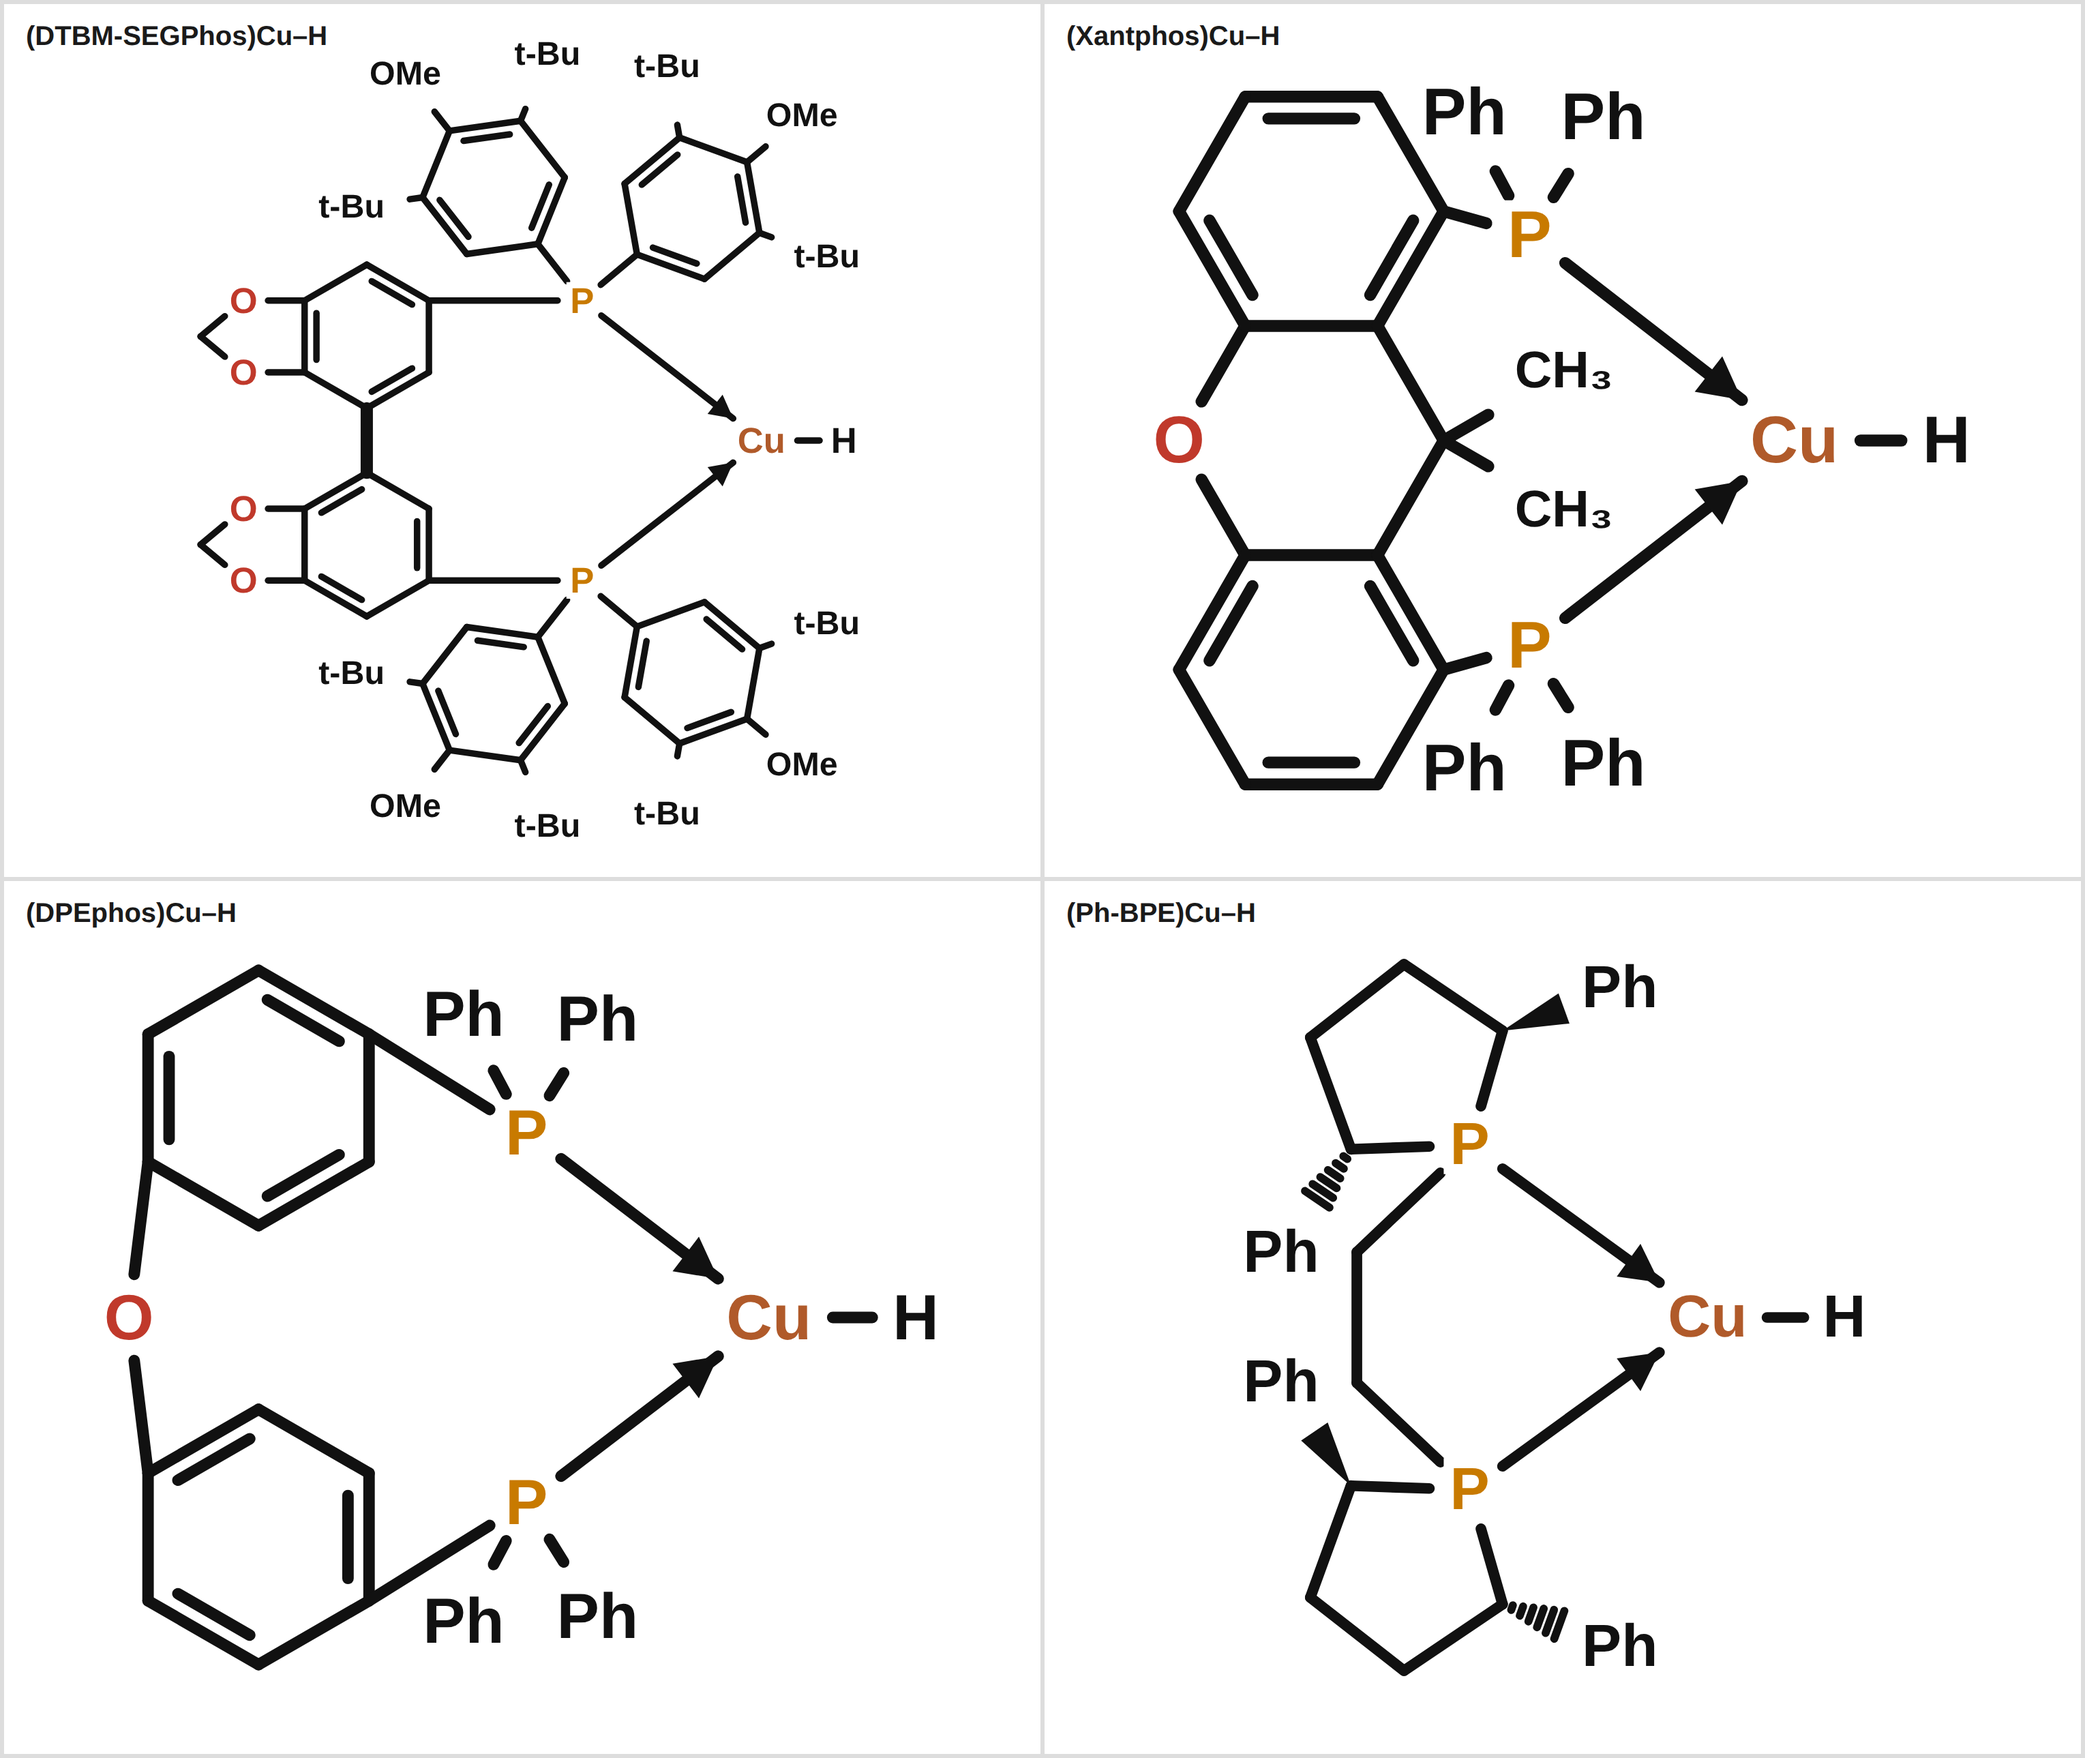
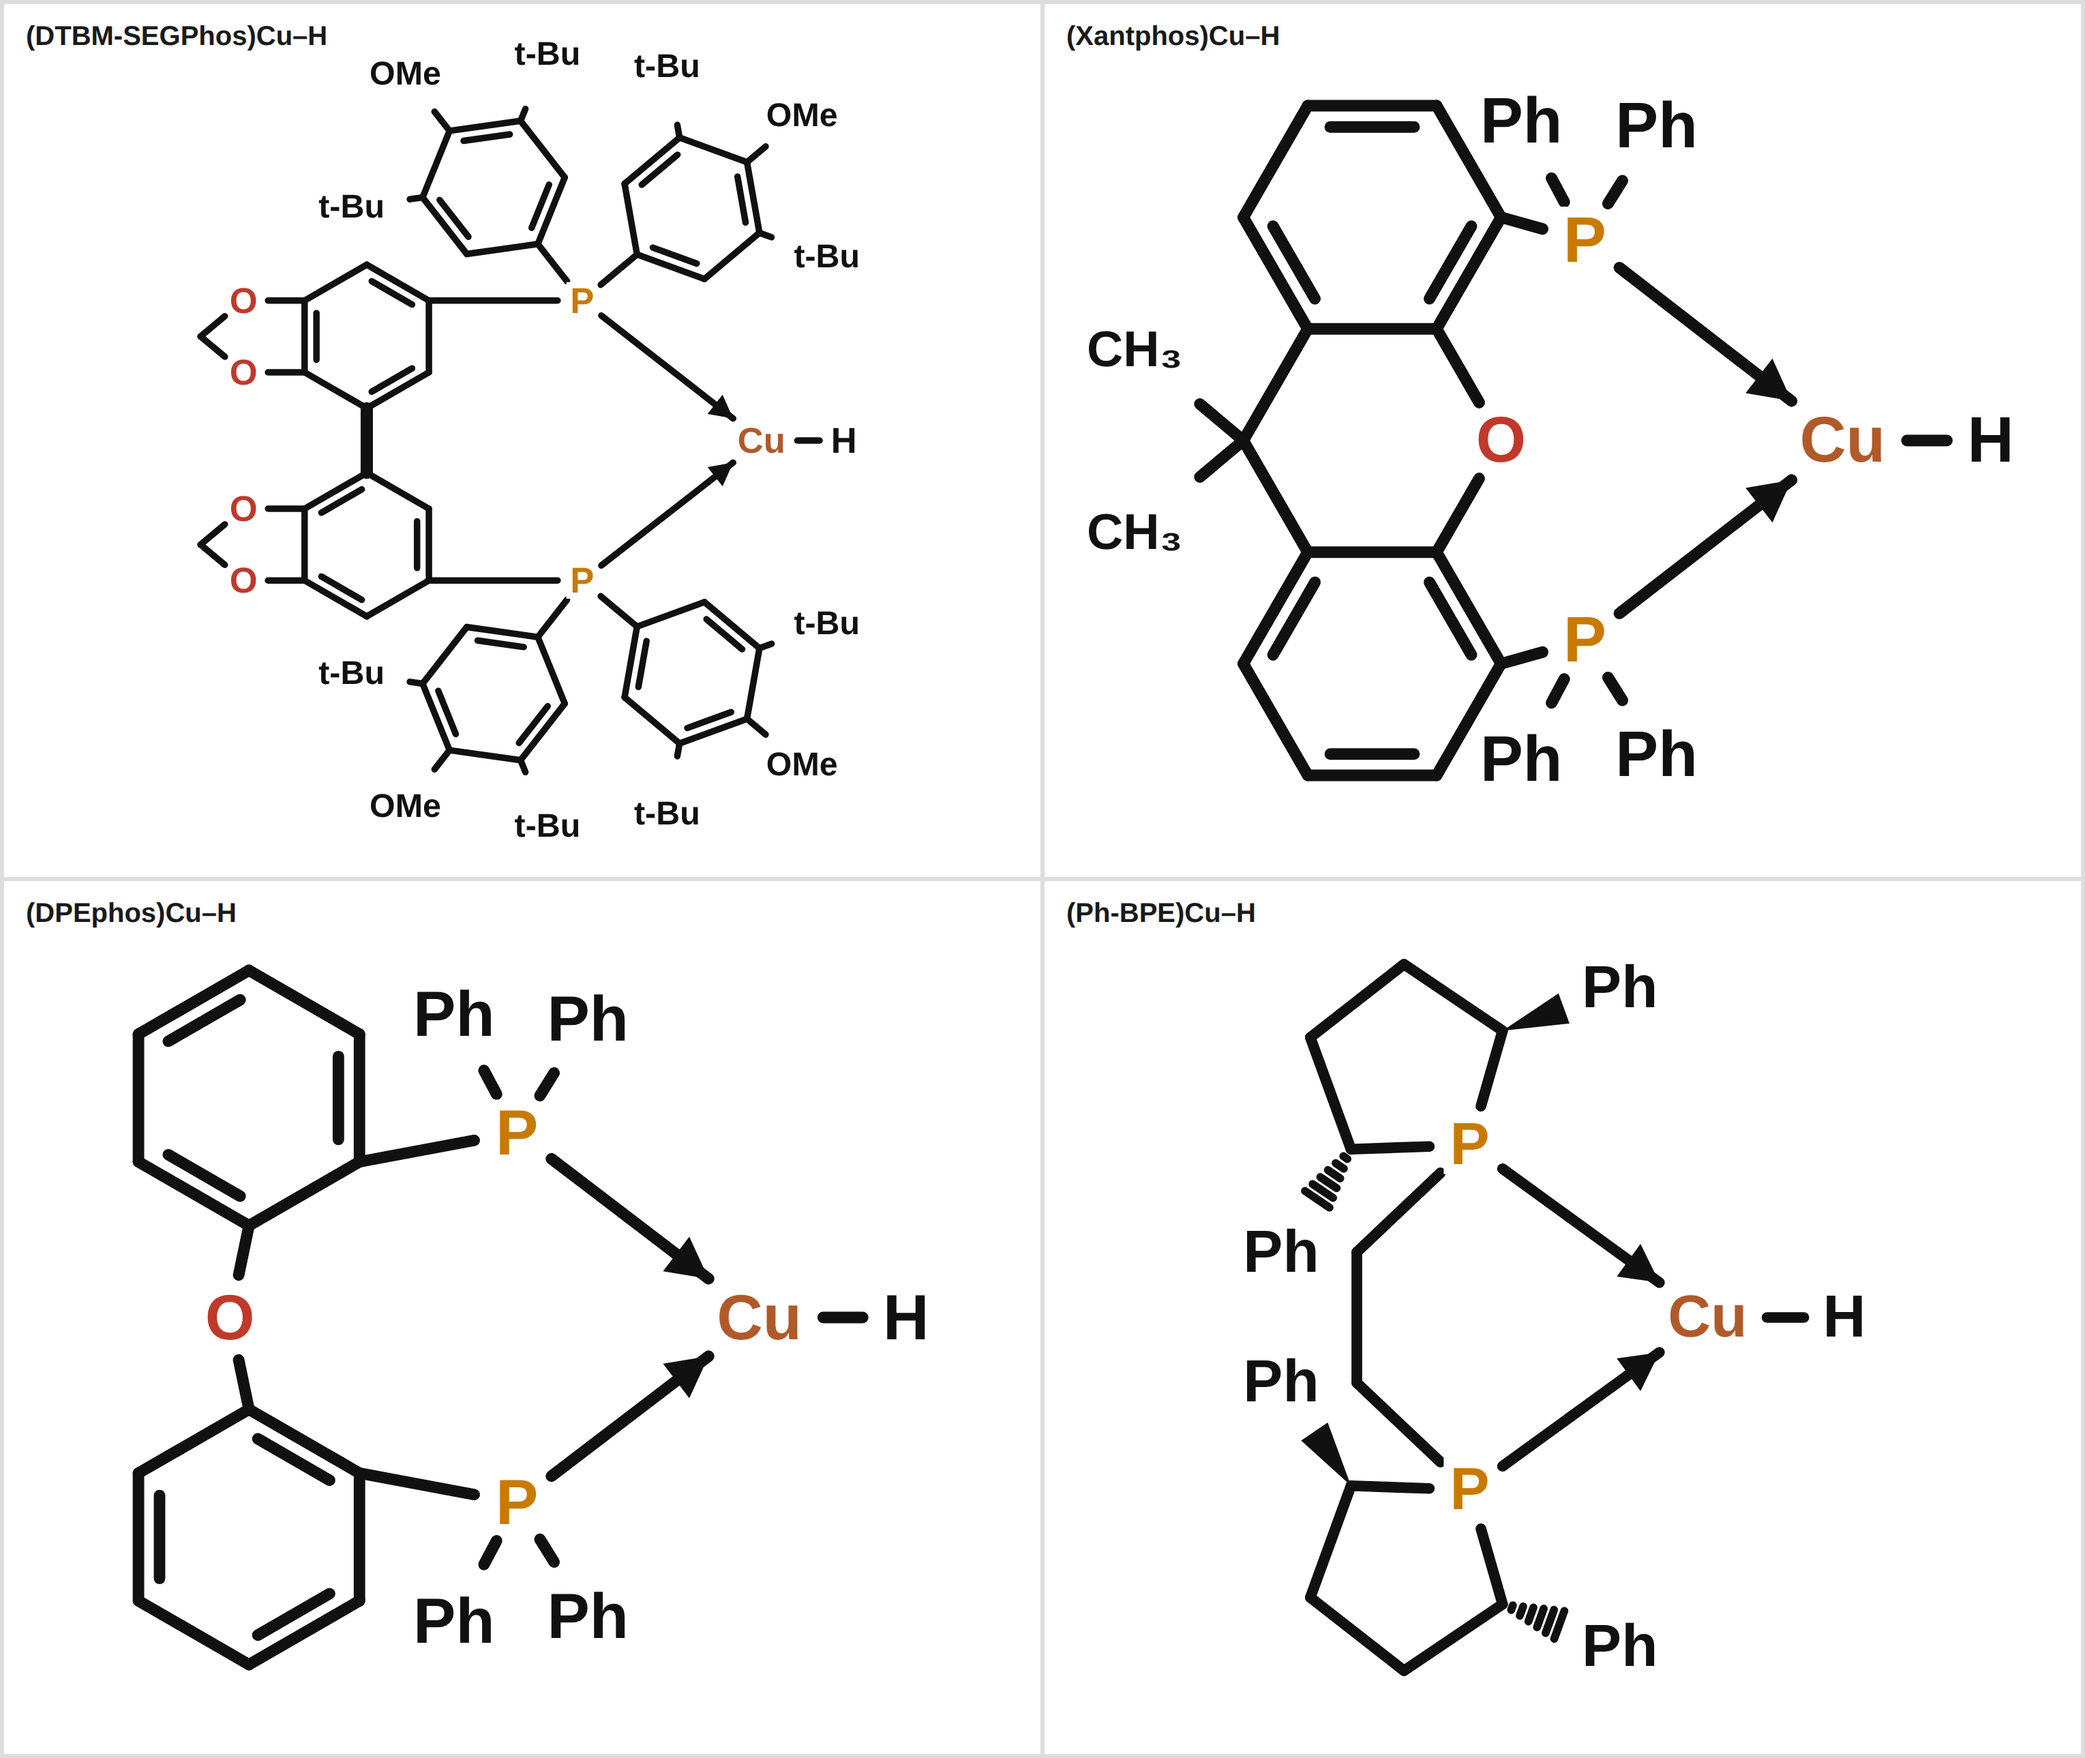
metaldepict Method C: fix Xantphos & DPEphos phosphine connectivity
The deterministic SVG template (method3_template.py) attached the phosphines to
the wrong aryl carbon relative to the bridging oxygen:

  * Xantphos -- O was on the far pyran vertex and C(CH3)2 on the metal side, so
    "nearest-P" picked the benzo carbon peri to C(CH3)2 instead of peri to O.
    Real Xantphos is 4,5-bis(phosphino): both P's are peri to O.  Fixed by
    putting the O bridgehead on the metal-facing vertex (CMe2 on the far side);
    the P-ipso carbon is now correctly ortho to the O-side fusion carbon.

  * DPEphos -- P was bonded to bu[0] (30 deg) while O bridged bu[3] (210 deg),
    i.e. P para to O.  DPEphos is (2-Ph2P-phenyl)2O: P must be ORTHO to O.
    Re-oriented each ring (v0 -30 / +30) so the P-ipso vertex points at its P
    and the adjacent vertex toward the hinge carries the ether O.

Also widened the C(CH3)2 methyl fan so the two CH3 labels clear each other.
All four Method-C structures now report zero template overlaps. The underlying
RDKit molecules were already correct; this was purely a hand-template bug, and
Method C2 (graph-BFS from the real bond list) was unaffected.

Claude-Session: https://claude.ai/code/session_01VEr4Hixwf6YDK6DNqMg3Gi

Changed region(s): [[0.5281, 0.031, 0.963, 0.4655], [0.0311, 0.5586, 0.466, 0.962], [0.3107, 0.7758, 0.3417, 0.8068]]

diff --git a/metaldepict/methods/method3_template.py b/metaldepict/methods/method3_template.py
@@ -182,8 +182,12 @@ def _xanthene_backbone(sc, c):
                 if not (set((b.a, b.b)) <= set(py))]
     for k in range(6):
         sc.bond(py[k], py[(k + 1) % 6], order=1)
-    cQ = py[0]    # right vertex -> C(CH3)2
-    cO = py[3]    # left vertex  -> O
+    # CONNECTIVITY: in 4,5-bis(phosphino)xanthene the two P's sit PERI TO THE
+    # OXYGEN (positions 4,5).  So the O bridgehead must face the metal pocket
+    # (right) and C(CH3)2 the far side (left) -- then the benzo carbon nearest
+    # each P is the one ortho to the O-bearing fusion carbon, i.e. peri to O.
+    cO = py[0]    # right vertex (metal side) -> O bridgehead
+    cQ = py[3]    # left  vertex (far side)   -> C(CH3)2
     sc.atoms[cO].label = "O"
     sc.atoms[cO].color = O_COL
     # the two upper carbons py[1](60deg) & py[2](120deg) are the shared edge of
@@ -191,17 +195,17 @@ def _xanthene_backbone(sc, c):
     # Fuse upper benzo onto edge (py[1]-py[2]); fuse lower onto edge (py[5]-py[4]).
     bu = _fuse_benzo(sc, py[2], py[1], cen)     # upper ring (above the edge)
     bd = _fuse_benzo(sc, py[4], py[5], cen)     # lower ring (below the edge)
-    # P attaches to the outer ortho carbon of each benzo ring (the one nearest P)
-    # _fuse_benzo returns ring ids with [0],[1] == the two shared (re-used) atoms
-    # and 2,3,4,5 the new ones going around.  The carbon ortho to the shared
-    # edge on the metal (right) side carries P.
+    # P attaches to the benzo carbon ortho to the O-side fusion carbon (peri to
+    # O).  With O at py[0] that O-side carbon is py[1] (upper) / py[5] (lower),
+    # which sit on the metal (right) side -- so "nearest P" now lands correctly.
     pu_aryl = _benzo_p_vertex(sc, bu, c["pu"])
     pd_aryl = _benzo_p_vertex(sc, bd, c["pd"])
     sc.bond(c["pu"], pu_aryl, order=1)
     sc.bond(c["pd"], pd_aryl, order=1)
-    # C(CH3)2 methyls -- point right toward the metal/open space
-    text_arm(sc, cQ, 30, "CH₃", length=1.05, fontscale=0.78)
-    text_arm(sc, cQ, -30, "CH₃", length=1.05, fontscale=0.78)
+    # C(CH3)2 methyls -- point left, away from the metal/backbone (fanned wide
+    # enough that the two CH3 labels clear each other)
+    text_arm(sc, cQ, 140, "CH₃", length=1.1, fontscale=0.78)
+    text_arm(sc, cQ, 220, "CH₃", length=1.1, fontscale=0.78)
     return sc
 
 
@@ -250,16 +254,19 @@ def _dpephos_backbone(sc, c):
     _pphos_phenyls(sc, c)
     cu_b = (1.0, 1.72)
     cd_b = (1.0, -1.72)
-    bu = place_hexagon(sc, cu_b, 30, kek_offset=0)
-    bd = place_hexagon(sc, cd_b, -30, kek_offset=0)
+    # CONNECTIVITY: DPEphos = (2-Ph2P-phenyl)2O, so on each ring P is ORTHO to
+    # the ether O.  Orient each hexagon so the P-ipso vertex points at its P
+    # (toward the metal) and the ADJACENT vertex toward the hinge carries O.
+    bu = place_hexagon(sc, cu_b, -30, kek_offset=0)   # upper: P=bu[0]@330, O@270
+    bd = place_hexagon(sc, cd_b, 30, kek_offset=0)    # lower: P=bd[0]@30,  O@90
     sc.bond(c["pu"], bu[0], order=1)
     sc.bond(c["pd"], bd[0], order=1)
-    up_botL = bu[3]    # 210 bottom-left of upper ring
-    dn_topL = bd[3]    # 150 top-left of lower ring
-    o_mid = vscale(vadd(sc.atoms[up_botL].pos, sc.atoms[dn_topL].pos), 0.5)
+    up_Oc = bu[5]      # 270 bottom vertex, ortho to P-ipso, toward the hinge
+    dn_Oc = bd[1]      # 90  top vertex,    ortho to P-ipso, toward the hinge
+    o_mid = vscale(vadd(sc.atoms[up_Oc].pos, sc.atoms[dn_Oc].pos), 0.5)
     oid = sc.atom((o_mid[0] - 0.15 * L, o_mid[1]), label="O", color=O_COL)
-    sc.bond(up_botL, oid, order=1)
-    sc.bond(dn_topL, oid, order=1)
+    sc.bond(up_Oc, oid, order=1)
+    sc.bond(dn_Oc, oid, order=1)
     return sc
 
 
